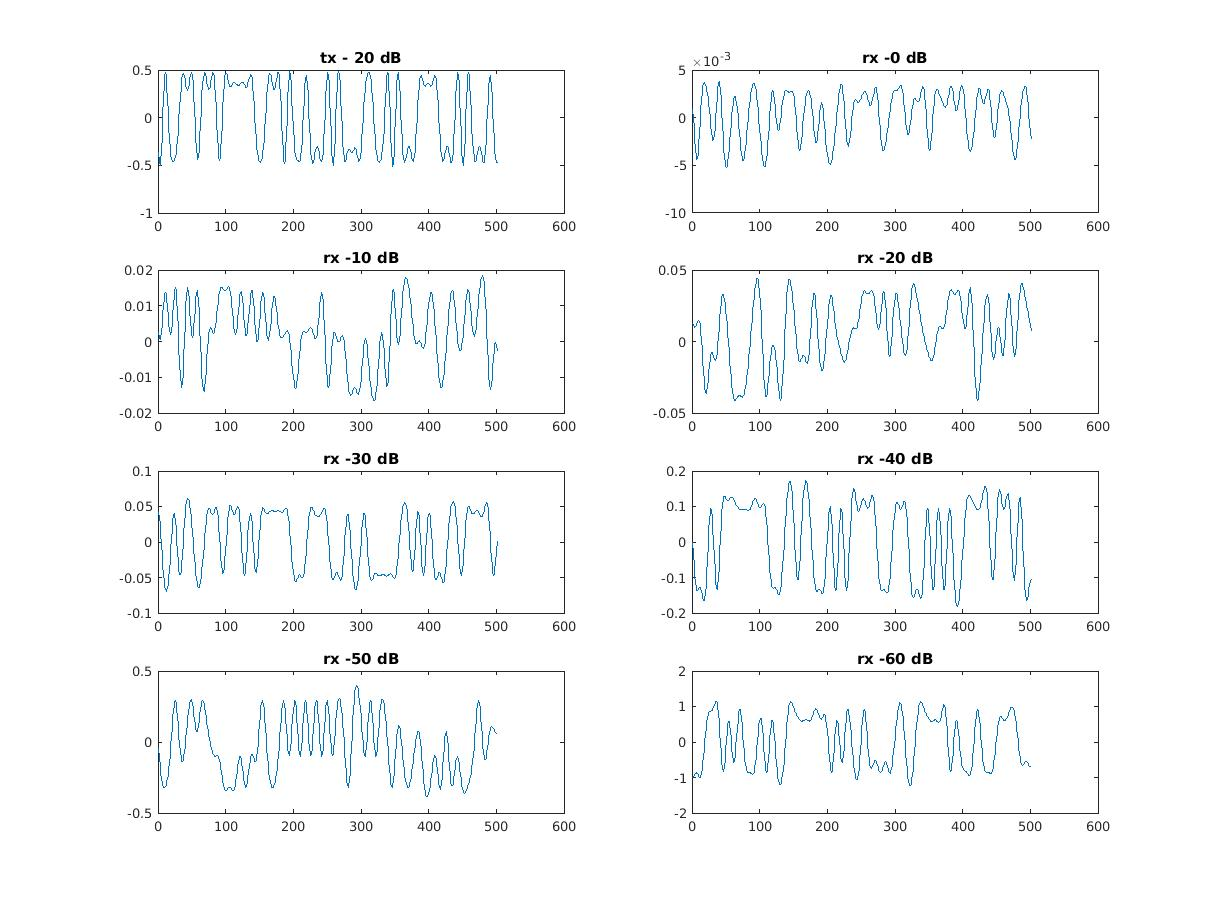
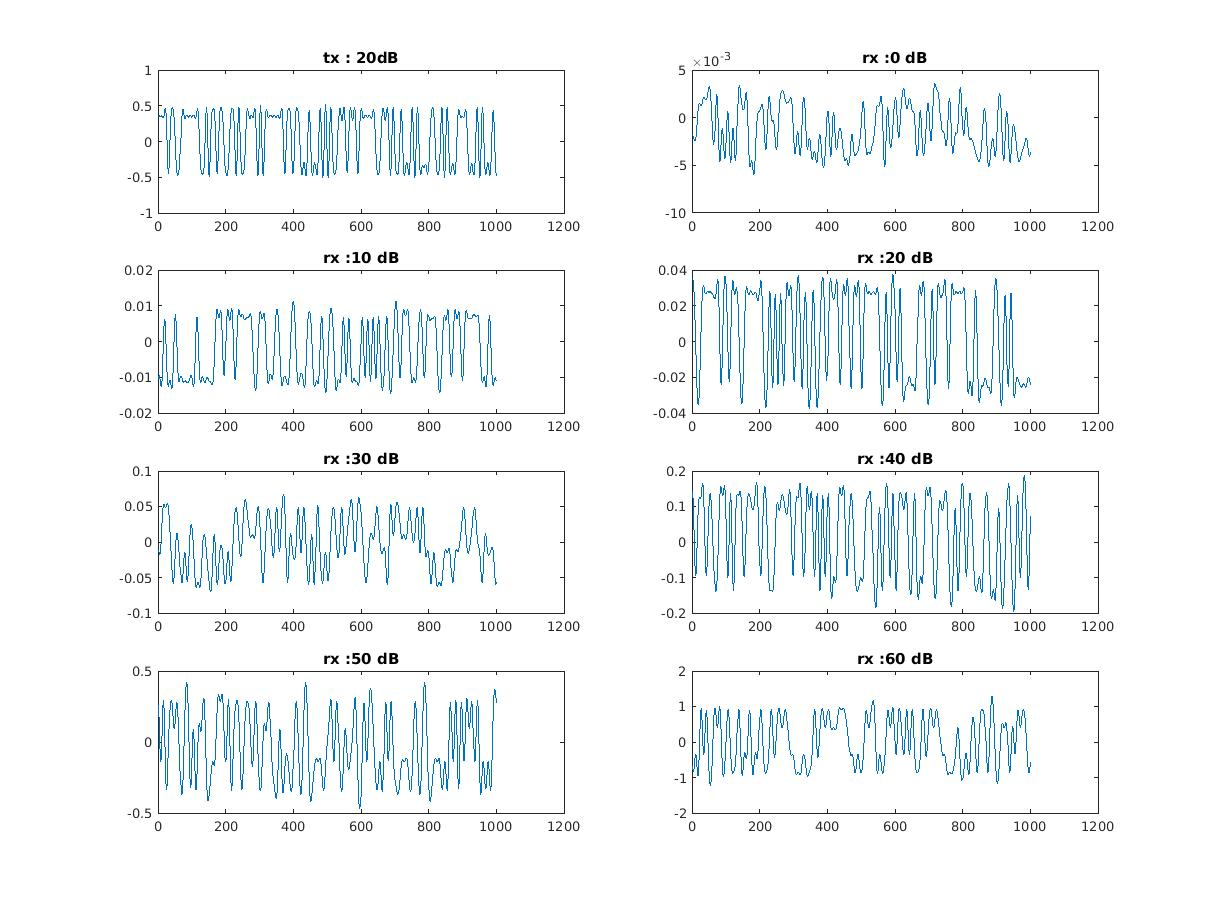
Matlab script for optimal rx gain

diff --git a/Matlab/rxGain.m b/Matlab/rxGain.m
@@ -1,0 +1,18 @@
+% script allowing us to find optimal rx gain through visual inspection
+for n = 2:8
+subplot(4,2,n);
+dB = (n-2)*10;
+data = 'first';
+data = strcat(data,num2str(dB));
+first = DataFromGRC(data,'complex');
+y = real(filter(B, 1, first));
+seg = y(1250000:1251000);
+plot(seg);
+tString = strcat('rx : ', num2str(dB), ' dB'); 
+title(tString);
+end
+
+subplot(421)
+rs = real(rx(end-length(seg):end));
+plot(rs)
+title('tx : 20dB');
